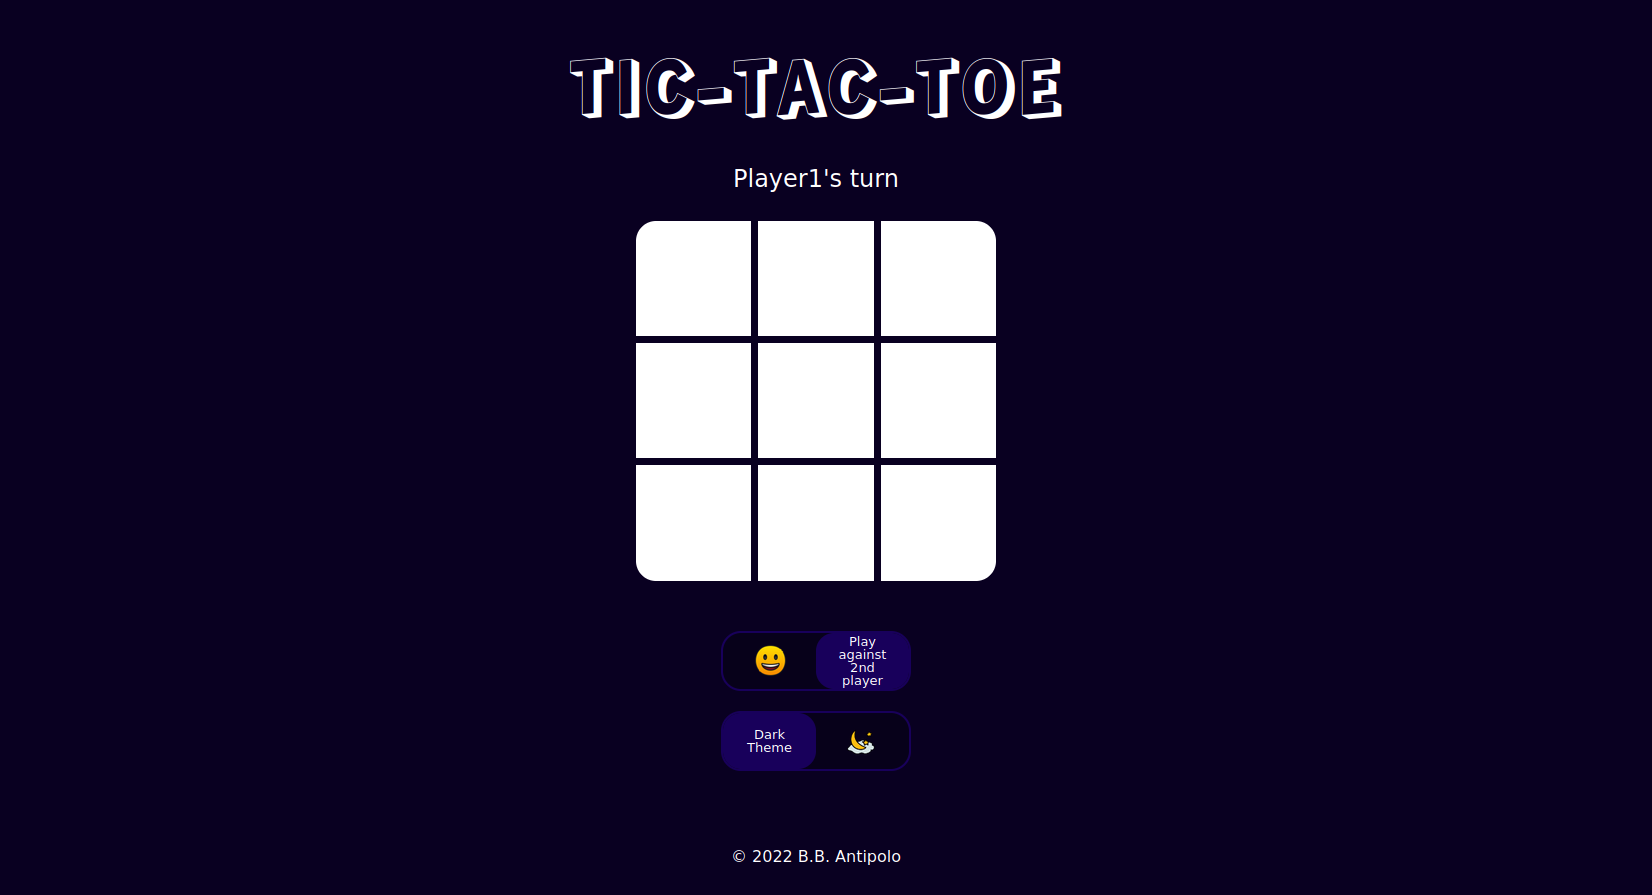
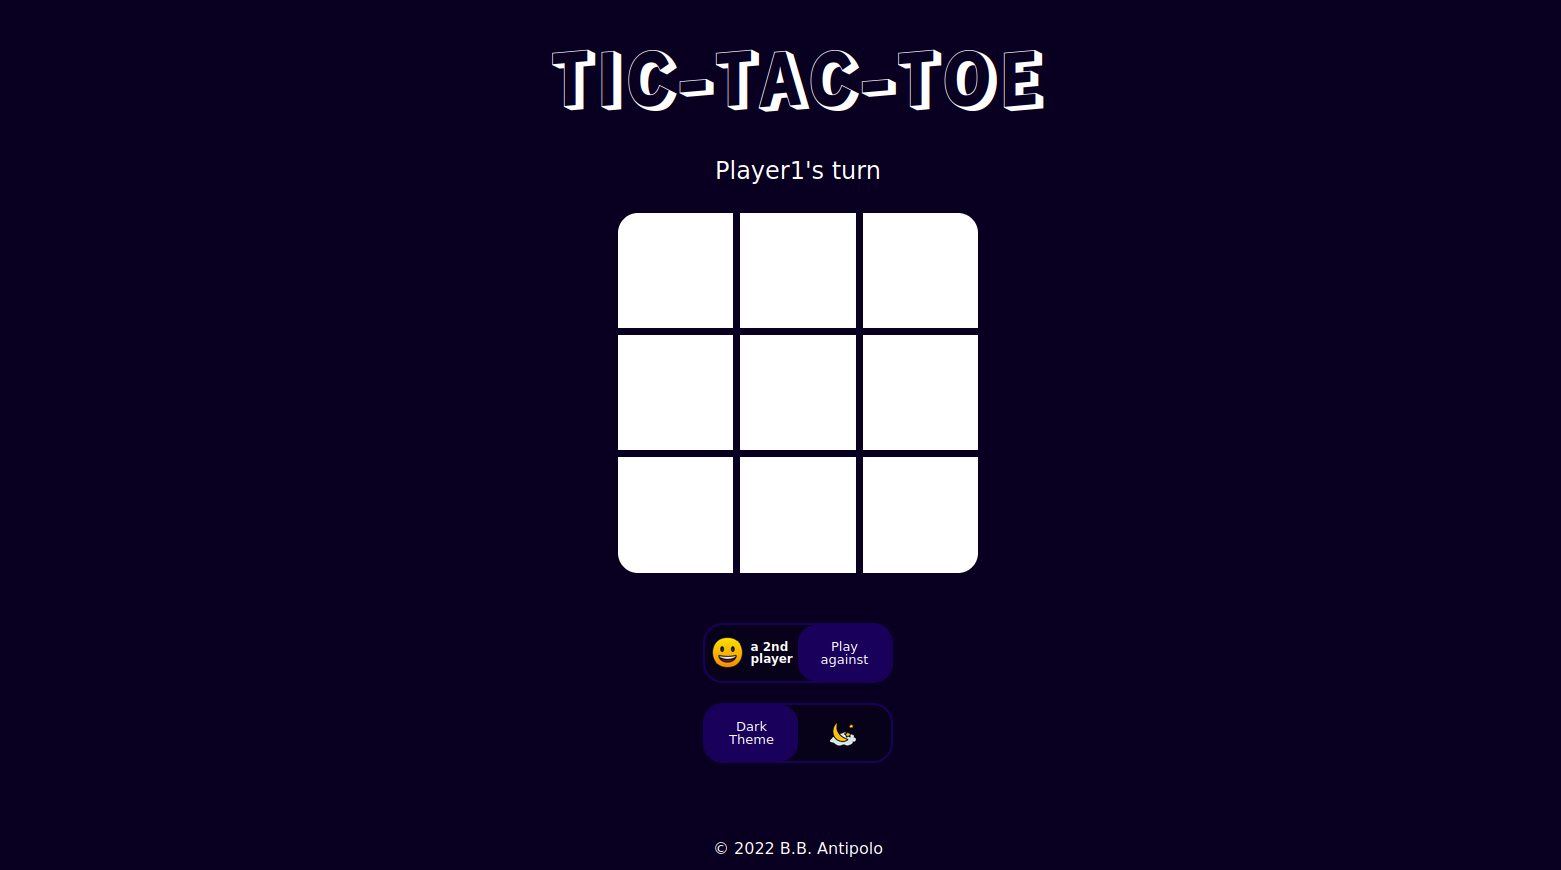
styles &  docs: replace screenshots and mobile breakpoint

diff --git a/styles/main.css b/styles/main.css
@@ -98,8 +98,6 @@ img {
     align-content: space-between;
     width: 360px;
     height: 360px;
-    max-width: 360px;
-    max-height: 360px;
     border-radius: 20px;
     margin: 30px 0 0 0;
     background-color: transparent;
@@ -114,10 +112,6 @@ img {
     width: 32%;
     height: 32%;
     cursor: pointer;
-}
-
-.ttt__tiles>* {
-    color: var(--bg-color);
 }
 
 .ttt__tiles:nth-child(1) {
@@ -138,9 +132,9 @@ img {
 
 .ttt__outcome__overlay {
     position: absolute;
-    width: 360px;
-    height: 360px;
-    top: 0px;
+    width: inherit;
+    height: inherit;
+    top: 0;
     background: var(--overlay-bg-color);
     border-radius: 20px;
 }
@@ -148,12 +142,13 @@ img {
 .ttt__outcome__overlay>* {
     position: absolute;
     text-align: center;
+    cursor: pointer;
 }
 
 .ttt__outcome__winner {
     width: 139px;
     height: 48px;
-    left: 110px;
+    left: 98px;
     top: 131px;
     font-weight: bold;
     font-size: 36px;
@@ -161,13 +156,14 @@ img {
     text-align: center;
     color: #000;
     text-transform: uppercase;
+    text-align: center;
 }
 
 .ttt__outcome__restart {
-    width: 145px;
+    width: 260px;
     height: 32px;
-    left: 107px;
-    top: 202px;
+    left: 50px;
+    top: 250px;
     font-weight: 350;
     font-size: 24px;
     line-height: 32px;
@@ -175,11 +171,12 @@ img {
 }
 
 .ttt__tiles>* {
+    color: var(--bg-color);
     width: 76px;
     height: 76px;
 }
 
-.xo{
+.xo {
     position: absolute;
     top: 0;
     font-size: 100px;
@@ -189,6 +186,7 @@ img {
 /*** FOOTER ***/
 .footer {
     text-align: center;
+    font-size: 18px;
 }
 
 .footer a {
@@ -276,4 +274,78 @@ input[type="checkbox"] {
 #alright {
     right: 0;
     margin-left: 70px;
+}
+
+#player-level,
+#ai-level {
+    display: flex;
+    justify-content: space-evenly;
+    align-items: center;
+}
+
+#player-level>div,
+#ai-level>div {
+    width: min-content;
+}
+
+/*** TABLET AND MOBILE BREAKPOINTS ***/
+@media screen and (max-height: 640px) and (orientation: landscape) {
+    .header-title {
+        font-size: 36px;
+        margin: 0 0 32px 0;
+    }
+    .xo {
+        font-size: 75px;
+    }
+    .ttt {
+        width: 260px;
+        height: 260px;
+    }
+    .ttt__outcome__winner {
+        left: 60px;
+        top: 65px;
+        font-size: 30px;
+    }
+    
+    .ttt__outcome__restart {
+        left: 0px;
+        top: 160px;
+        font-size: 18px;
+    }
+}
+@media screen and (max-width: 428px) {
+    .main-container{
+        padding: 24px 0;
+    }
+    .header-title {
+        font-size: 48px;
+        margin: 0 0 16px 0;
+    }
+    .ttt {
+        width: 300px;
+        height: 300px;
+    }
+    .xo {
+        font-size: 85px;
+    }
+
+    .ttt__current-user {
+        font-size: 20px;
+    }
+
+    .footer__copyright {
+        font-size: 15px;
+    }
+
+    .ttt__outcome__winner {
+        left: 75px;
+        top: 87px;
+        font-size: 30px;
+    }
+    
+    .ttt__outcome__restart {
+        left: 16px;
+        top: 200px;
+        font-size: 18px;
+    }
 }

diff --git a/index.js b/index.js
@@ -126,15 +126,12 @@ function toggleGamemode() {
     const switchMode = (newGamemode) => {
         //check the mode toggle switch if the mode is AI
         playerInput.checked = newGamemode === 'ai' ? false : true;
-        return newGamemode === 'ai' ? 'the AI' : '2nd player';
     }
     playerInput.onchange = (e) => {
         TTT.setGamemode(e.target.checked ? 'player' : 'ai');
         restartGame();
         const newGamemode = TTT.getGamemode();
         setTimeout(() => {
-            const switchModeLabel = `Play against ${switchMode(newGamemode)}`;
-            playerInputLabel.textContent = switchModeLabel;
             localStorage.setItem('gamemode', newGamemode);
         }, 200);
     }
@@ -158,10 +155,8 @@ function checkIfThereIsAWinner(currentPlayer) {
 function initializePreparationBeforeTTT() {
     if (localStorage.getItem('gamemode') === 'player') {
         playerInput.checked = true;
-        playerInputLabel.textContent = 'Play against 2nd player';
     } else {
         playerInput.checked = false;
-        playerInputLabel.textContent = 'Play against the AI';
     }
 }
 function startGame() {

diff --git a/index.html b/index.html
@@ -37,12 +37,14 @@
                 <div class="switch">
                     <input type="checkbox" id="player-input">
                     <label id="label-player" class="slider rounded-border" for="player-input">
-                        <div class="knob">Play against the AI
+                        <div class="knob">Play against
                         </div>
                         <div id="player-level">
                             <img src="assets/images/happy.png" />
+                            <div>a 2nd player</div>
                         </div>
                         <div id="ai-level">
+                            <div>the AI</div>
                             <img src="assets/images/demon.png" />
                         </div>
                     </label>
